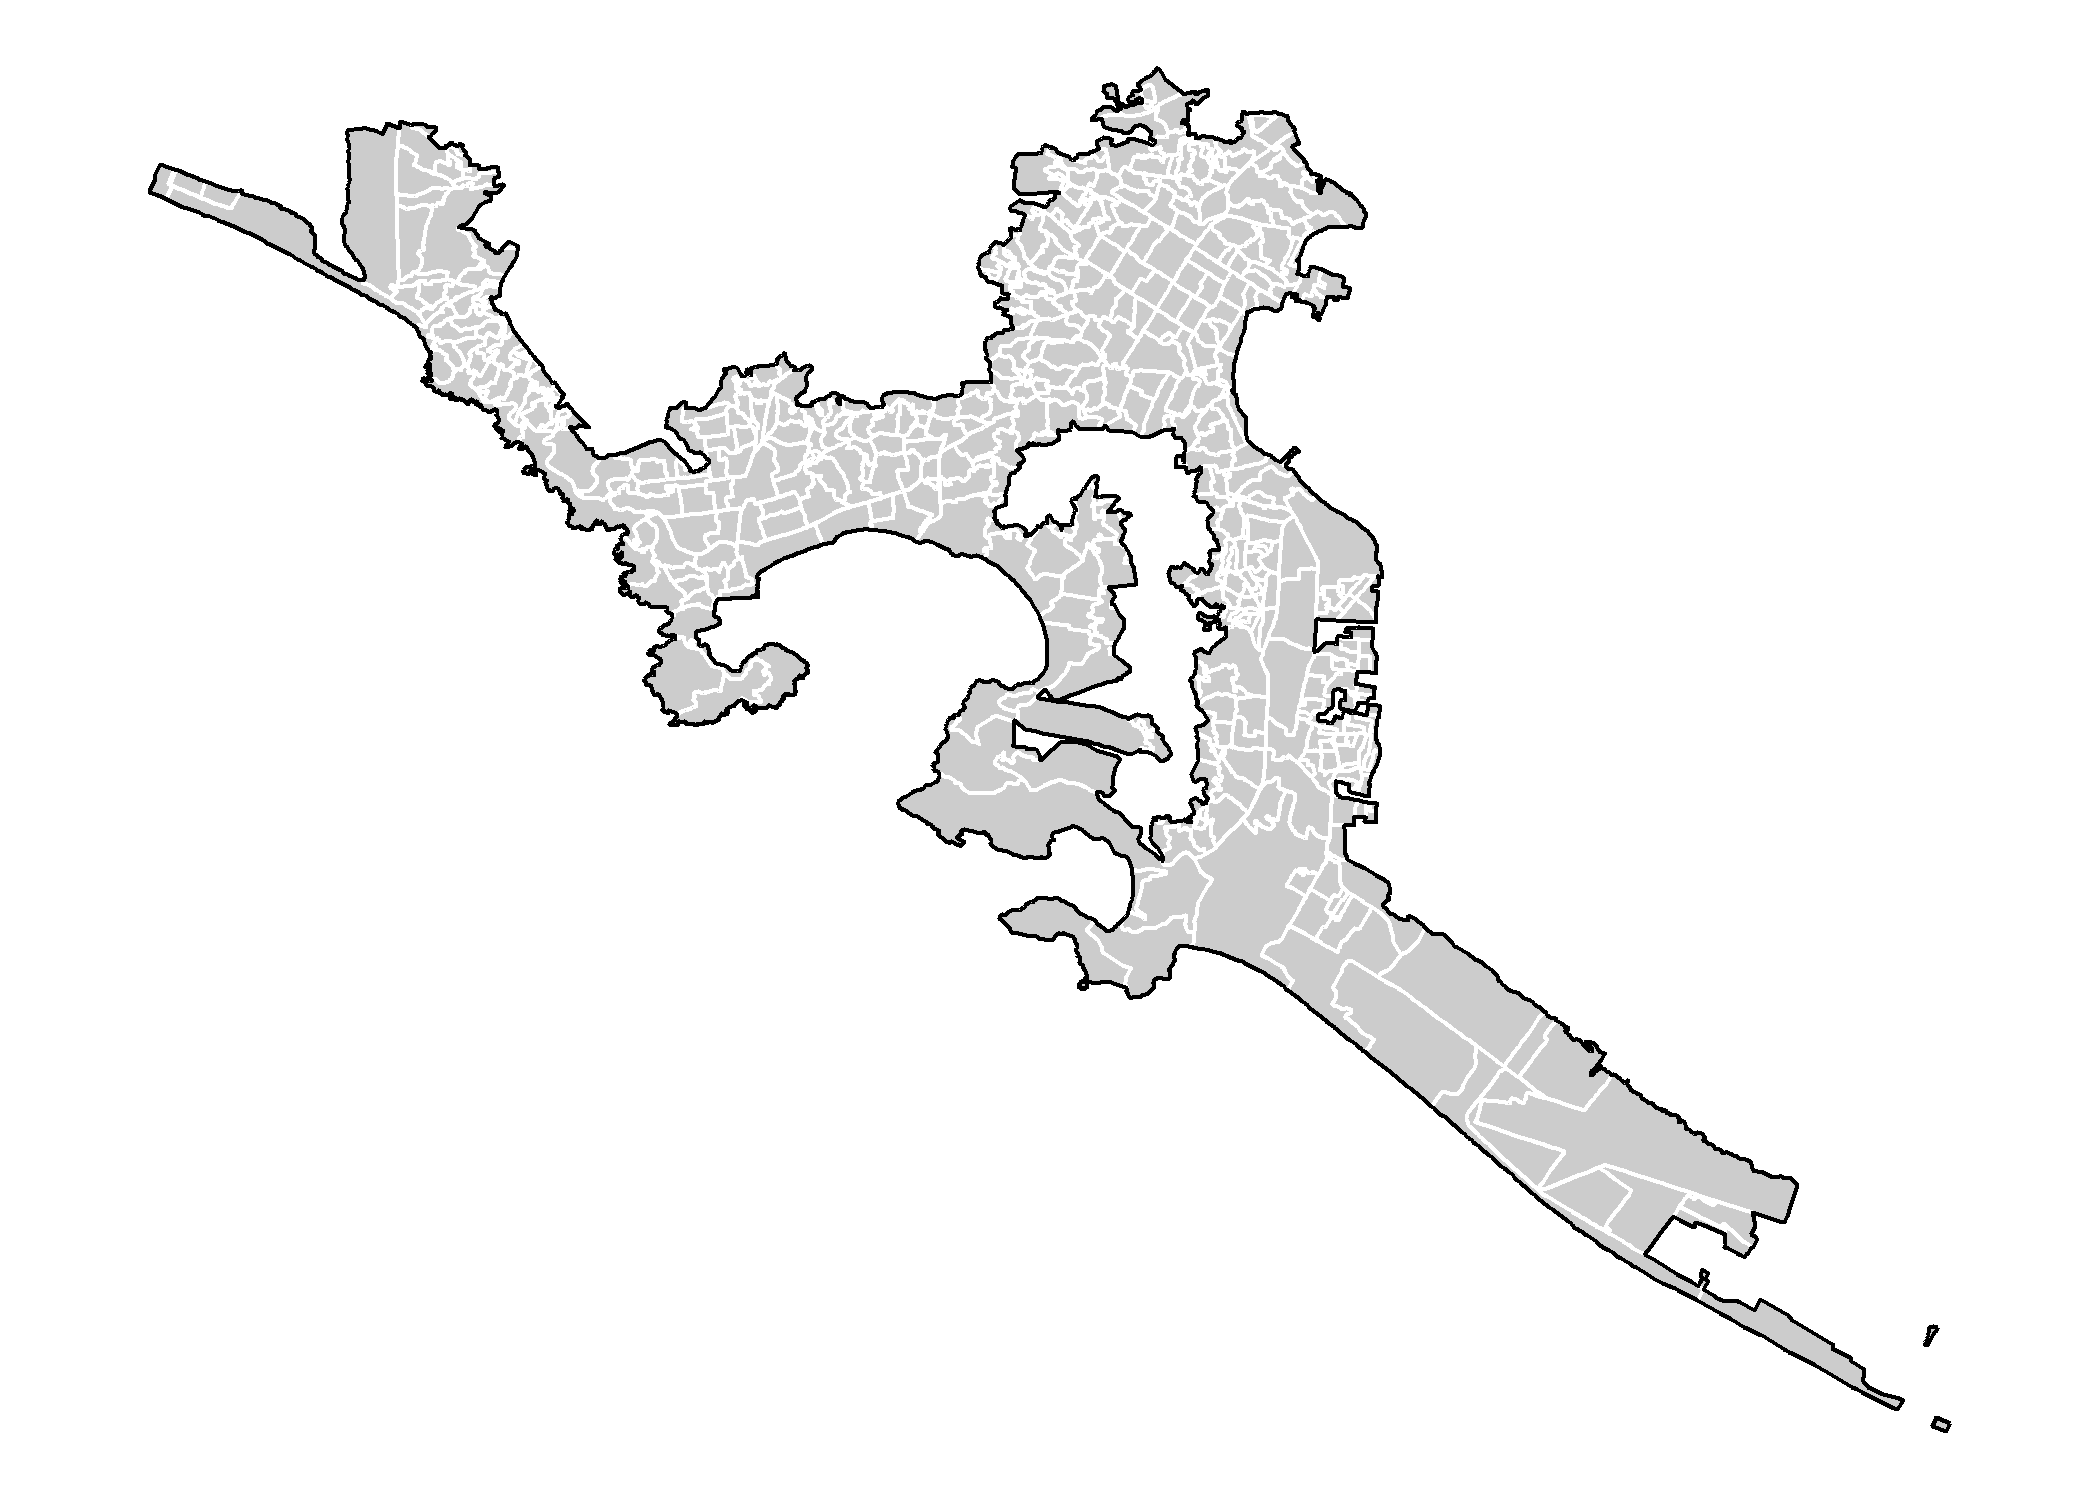
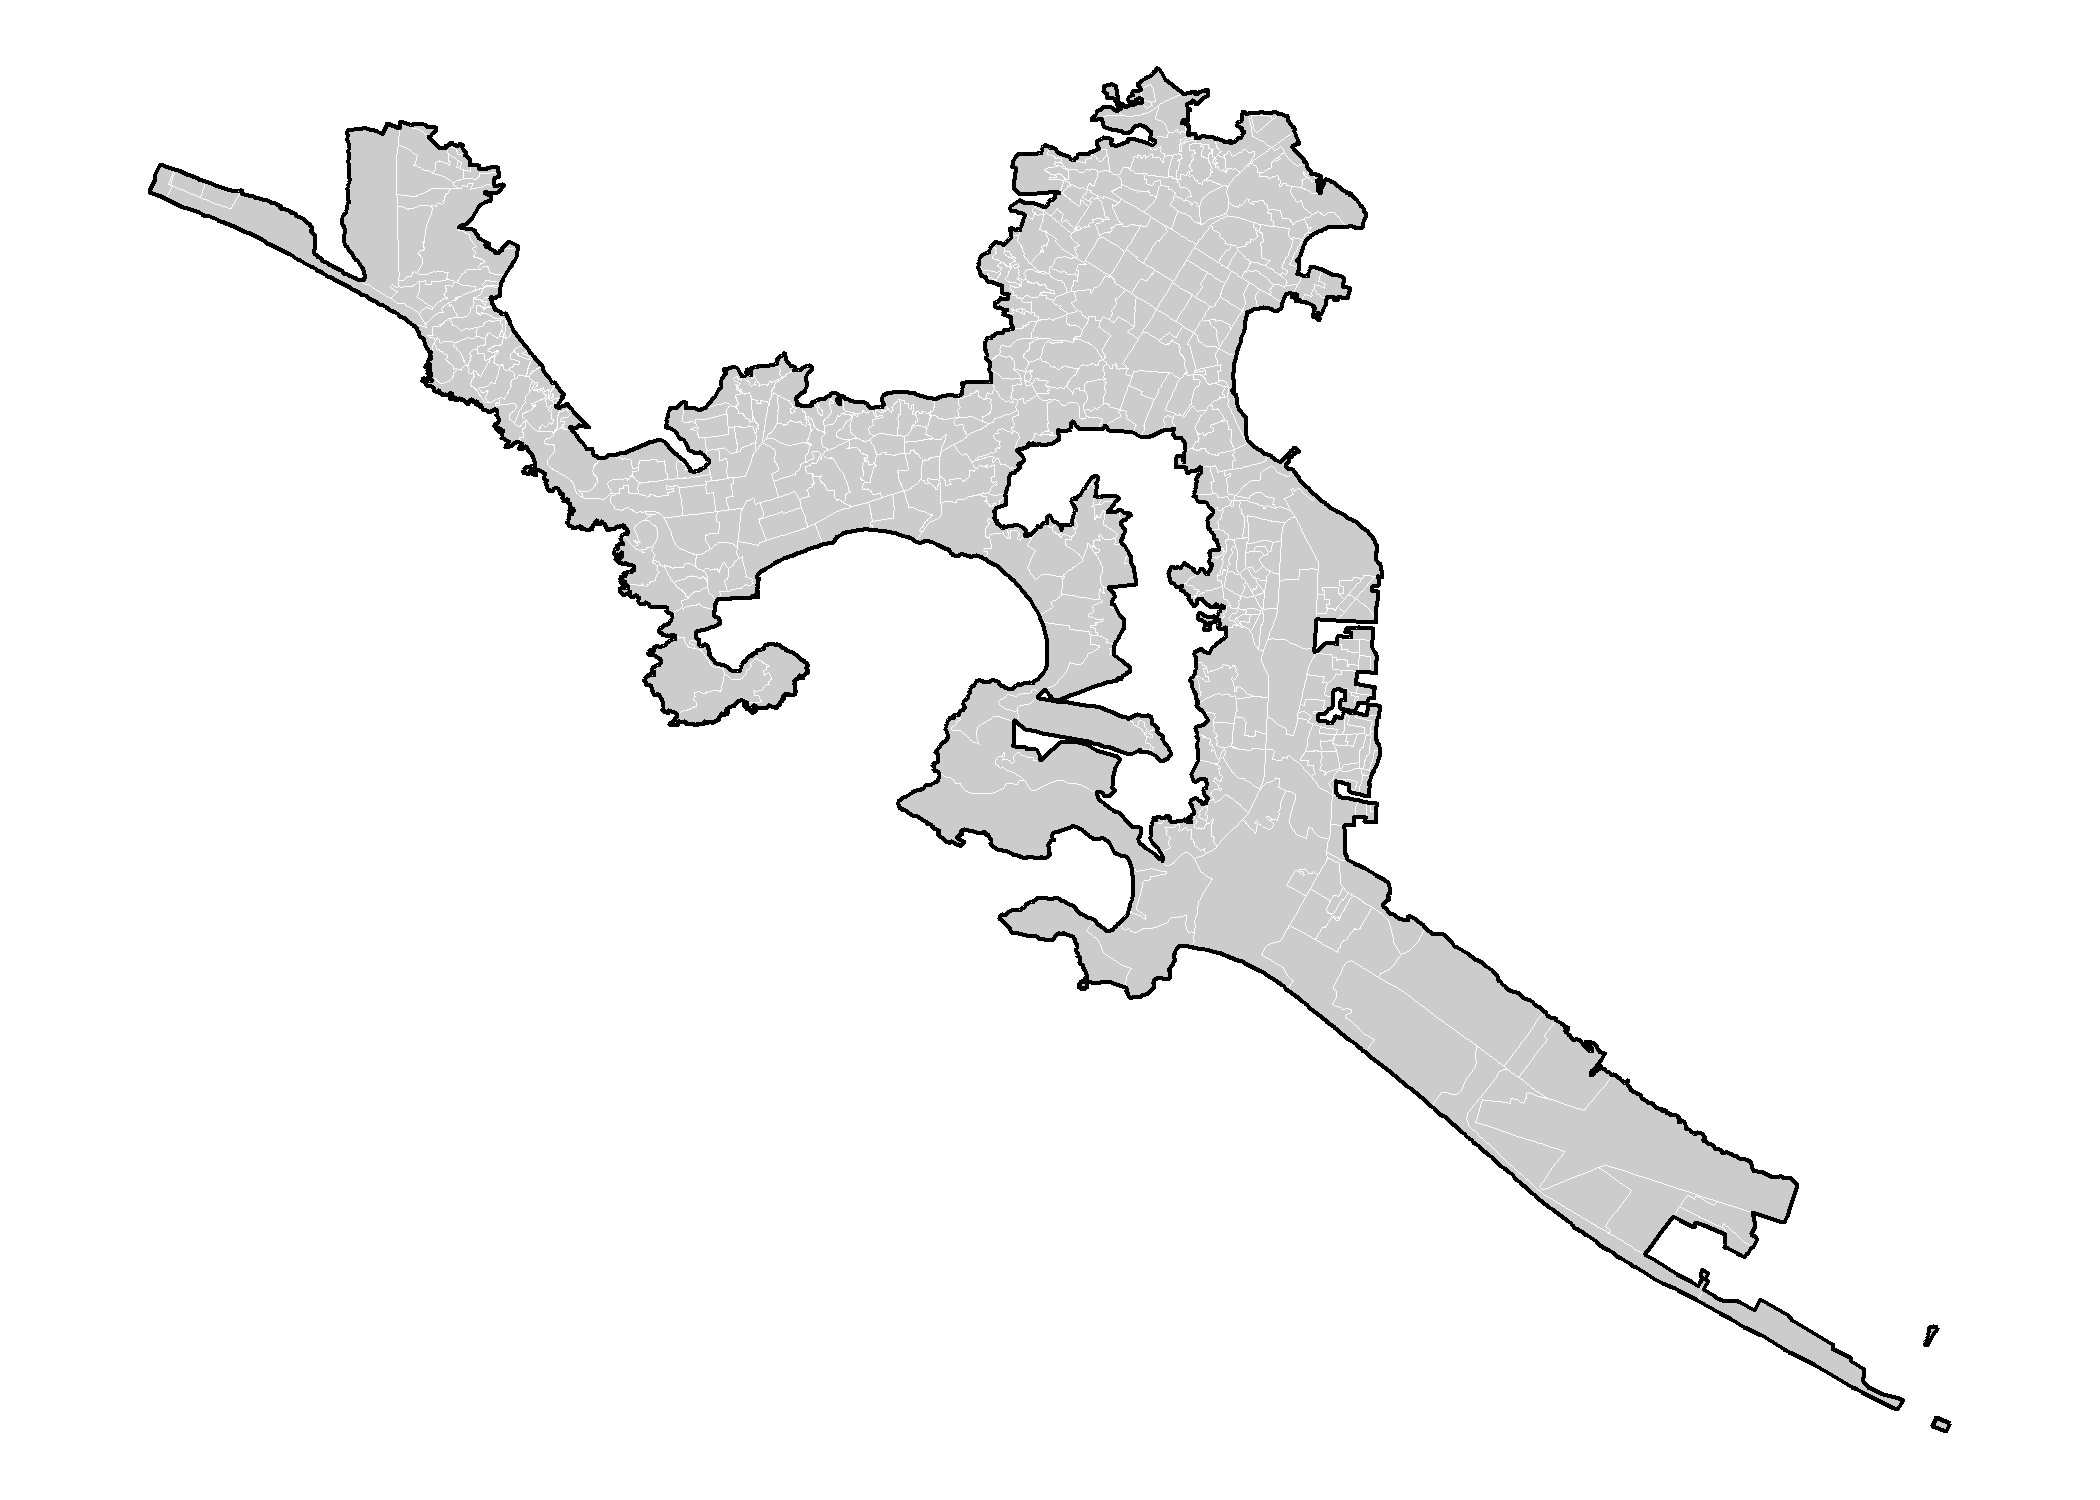
This commit update the README

diff --git a/README.md b/README.md
@@ -97,7 +97,8 @@ head(ageb_acapulco)
 ggplot2::ggplot()+
   ggplot2::geom_sf(data = ageb_acapulco,
                    fill = "gray80",
-                   col = "white") +
+                   col = "white",
+                   lwd = 0.1) +
   ggplot2::theme_void() +
   ggplot2::geom_sf(data = loc_acapulco,
                    fill = NA,
